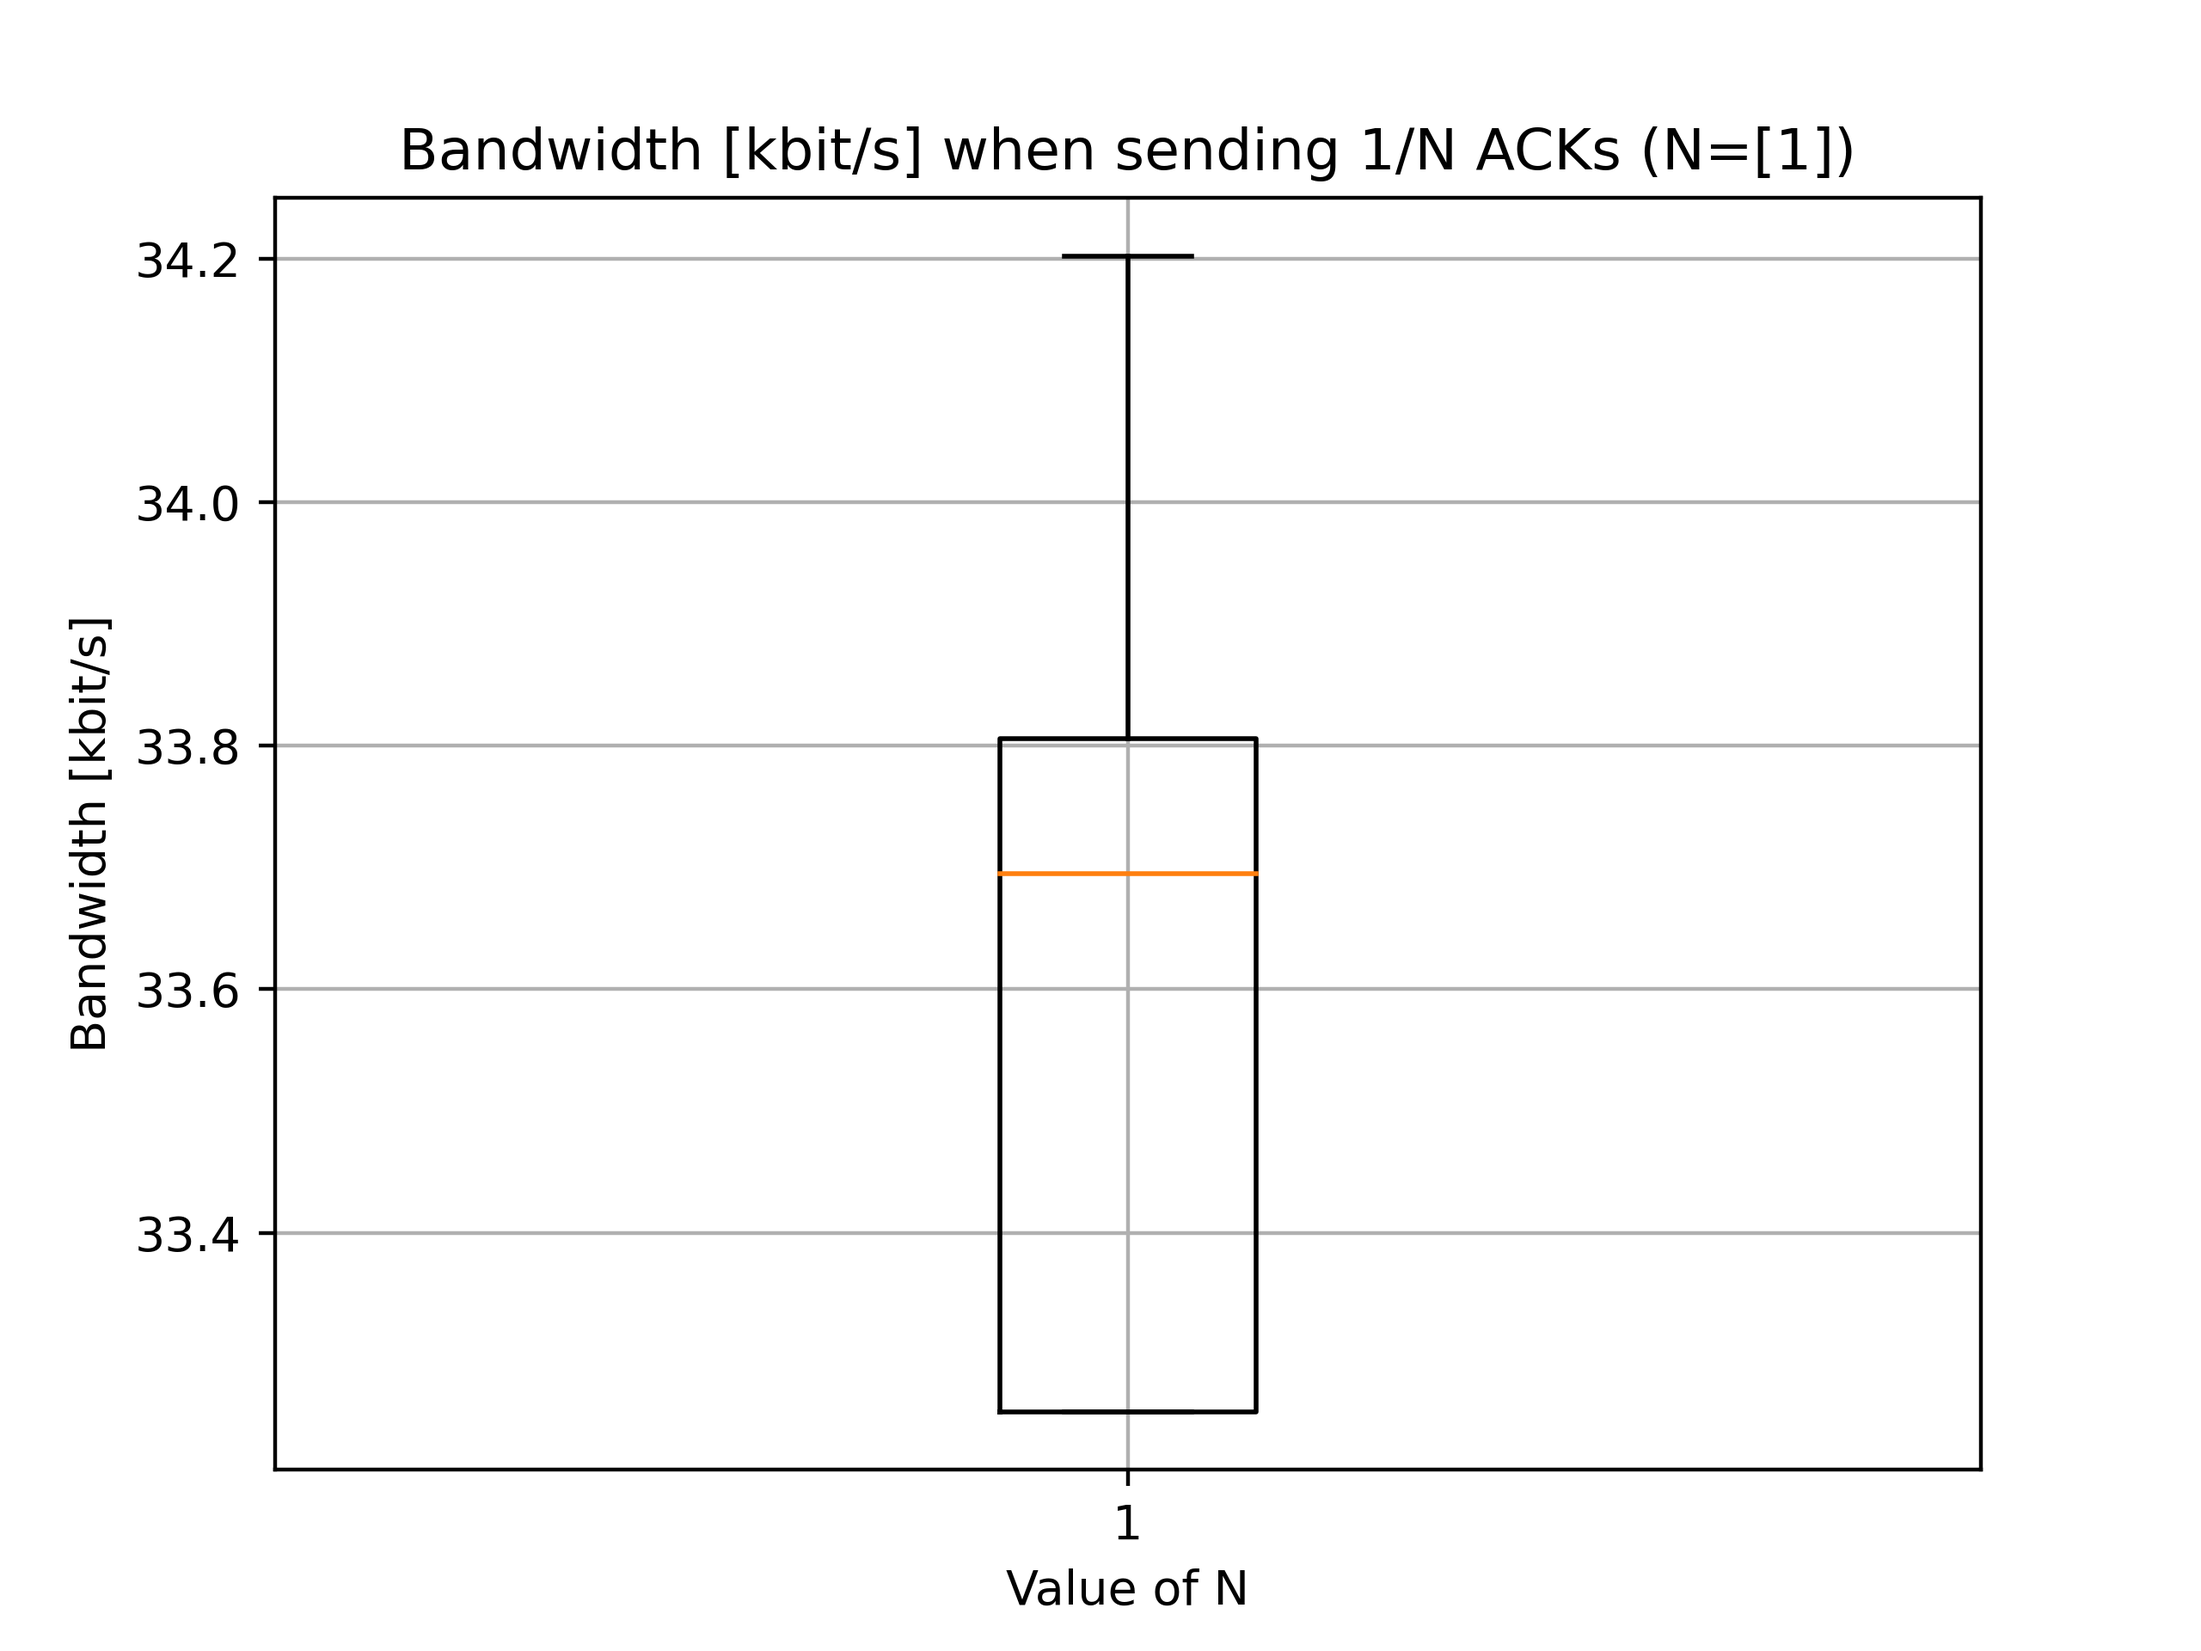
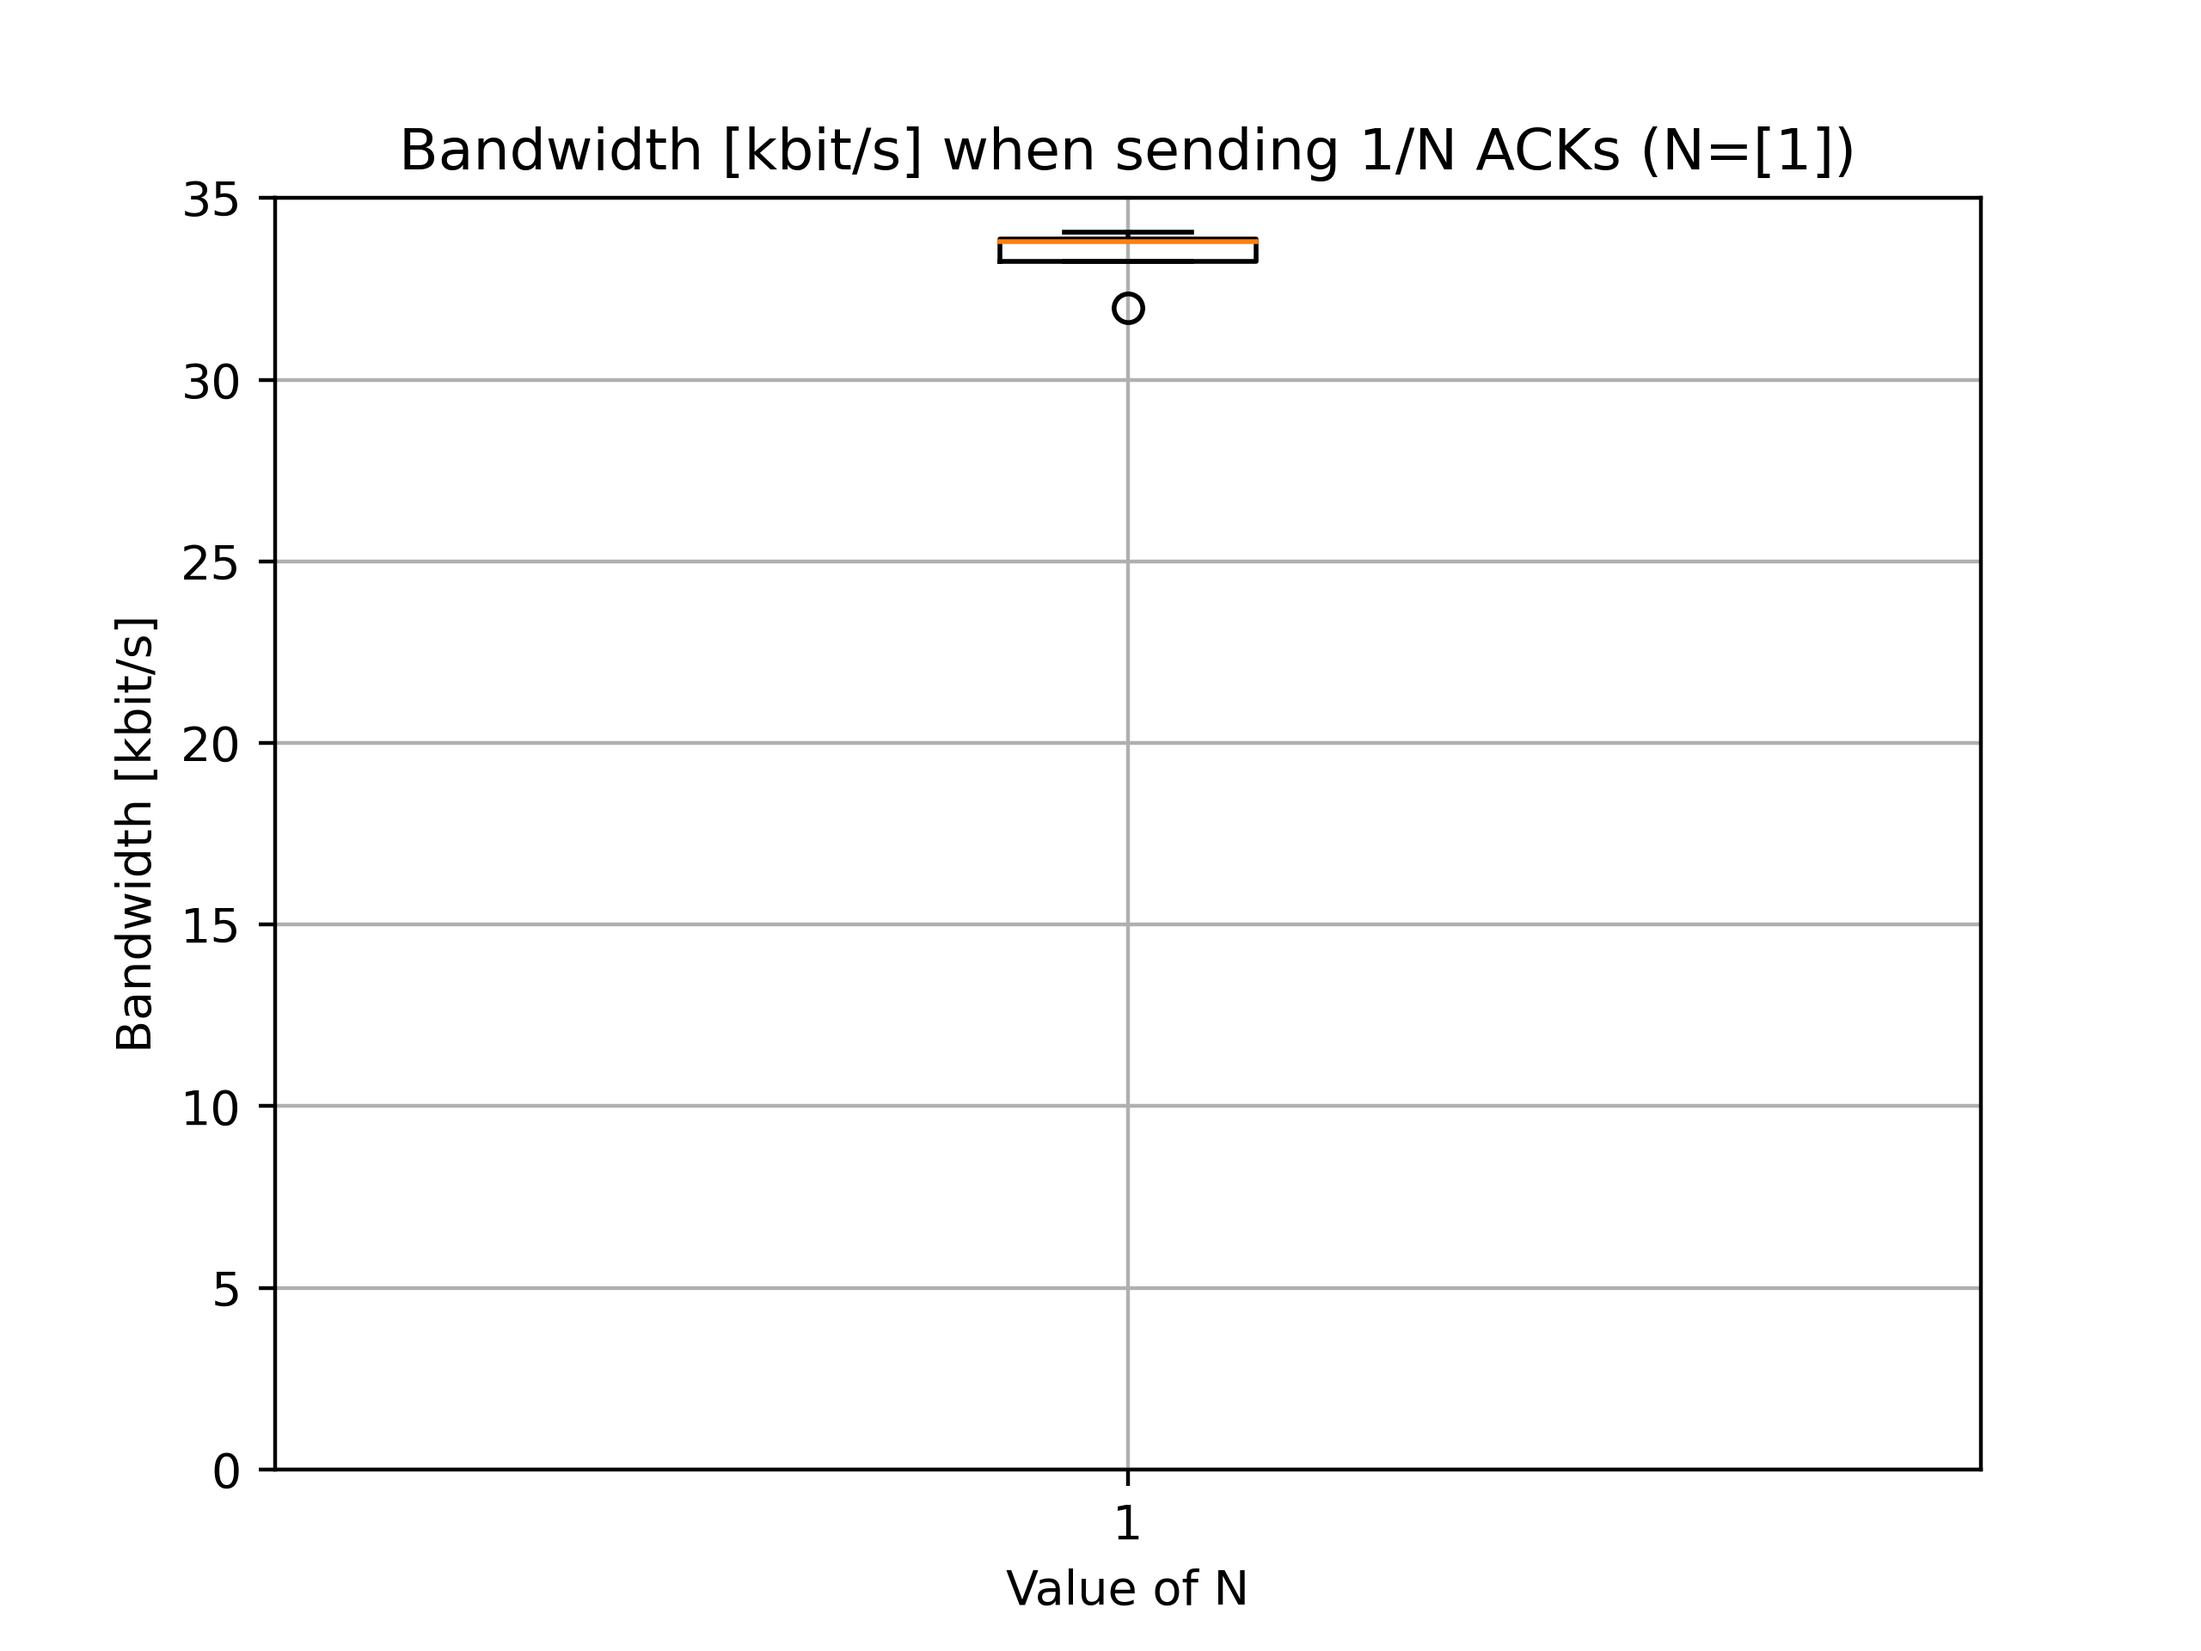
DAcks: add/fix graphs and plots

diff --git a/measurements/plot_delayed_ack.py b/measurements/plot_delayed_ack.py
@@ -1,6 +1,8 @@
 from matplotlib import pyplot as plt
 import os
 import sys
+import statistics
+from math import ceil
 
 dir_path = os.path.dirname(os.path.realpath(__file__))
 
@@ -39,6 +41,14 @@ for i in range(N):
   bandwidths.append(current_bandwidth)
 
 plt.boxplot(bandwidths)
+for n, bw in enumerate(bandwidths):
+  print('When N = {}, the median bandwidths is {}'.format(n, statistics.median(bw)))
+
+max_bandwidth = 0
+for bw_list in bandwidths:
+  for bw_value in bw_list:
+    max_bandwidth = max(max_bandwidth, bw_value)
+plt.ylim([0, 5*ceil(max_bandwidth/5)])
 plt.title('Bandwidth [kbit/s] when sending 1/N ACKs (N=' + str([i+1 for i in range(N)]) + ')')
 plt.ylabel('Bandwidth [kbit/s]')
 plt.xlabel('Value of N')
